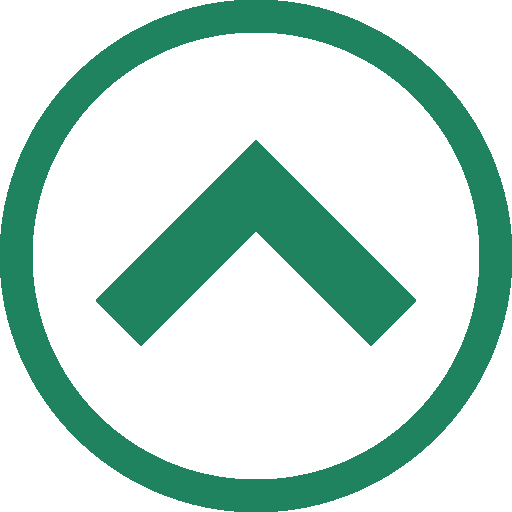
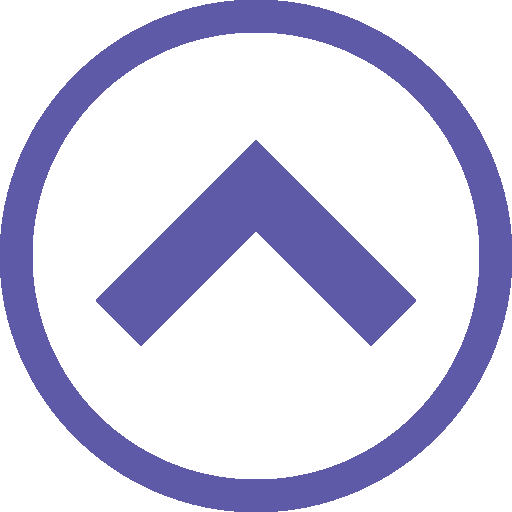
cambios imagen y botones

Changed region(s): [[0.0, 0.0, 1.0, 1.0], [0.1875, 0.2812, 0.8125, 0.6875]]

diff --git a/index.html b/index.html
@@ -70,11 +70,11 @@
       
       <div id="lenguaje">
       <ul class="lenguaje">
-        <li class="nav-item efectoHover">
-        <a href="#" data-name='spanish' class="idiomaEs btn btn-success btn-sm" role="button" aria-pressed="true">Español</a>
+        <li class="nav-item">
+        <a href="#" data-name='spanish' class="idiomaEs btn btn-outline-secondary rounded-0 btn-sm" role="button" aria-pressed="true">Español</a>
         </li>
-        <li class="nav-item efectoHover">
-        <a href="#" data-name='english' class="idiomaEn btn btn-danger btn-sm" role="button" aria-pressed="true">Inglés</a>
+        <li class="nav-item">
+        <a href="#" data-name='english' class="idiomaEn btn btn-outline-secondary rounded-0 btn-sm" role="button" aria-pressed="true">Inglés</a>
         </li>
       </ul>
       </div>
@@ -173,8 +173,8 @@
         </div>
       </div>
       <div class="text-center">
-        <a href="https://walterfcr.github.io/trops/" target="blank" class="btn btn-success btn-md mt-3 mb-5" role="button" aria-pressed="true">Website</a>
-        <a href="https://github.com/walterfcr/trops.git" target="blank" class="btn btn-danger btn-md mt-3 mb-5" role="button" aria-pressed="true">Github</a>
+        <a href="https://walterfcr.github.io/trops/" target="blank" class="estiloBoton btn btn-outline-secondary rounded-0 btn-md mt-3 mb-5" role="button" aria-pressed="true">Website</a>
+        <a href="https://github.com/walterfcr/trops.git" target="blank" class="estiloBoton btn btn-outline-secondary rounded-0 btn-md mt-3 mb-5" role="button" aria-pressed="true">Github</a>
       </div>
     </div>
     <div class="columnaImagenes">
@@ -186,8 +186,8 @@
         </div>
       </div>
       <div class="text-center">
-        <a href="https://walterfcr.github.io/cinemaclassic/" target="blank" class="btn btn-success btn-md mt-3 mb-5" role="button" aria-pressed="true">Website</a>
-        <a href="https://github.com/walterfcr/cinemaclassic.git" target="blank" class="btn btn-danger btn-md mt-3 mb-5" role="button" aria-pressed="true">Github</a>
+        <a href="https://walterfcr.github.io/cinemaclassic/" target="blank" class="estiloBoton btn btn-outline-secondary rounded-0 btn-md mt-3 mb-5" role="button" aria-pressed="true">Website</a>
+        <a href="https://github.com/walterfcr/cinemaclassic.git" target="blank" class="estiloBoton btn btn-outline-secondary rounded-0 btn-md mt-3 mb-5" role="button" aria-pressed="true">Github</a>
       </div>
     </div>
     <div class="columnaImagenes">
@@ -199,8 +199,8 @@
         </div>
       </div>
       <div class="text-center">
-        <a href="https://walterfcr.github.io/reinomagico/" target="blank" class="btn btn-success btn-md mt-3 mb-5" role="button" aria-pressed="true">Website</a>
-        <a href="https://github.com/walterfcr/reinomagico.git" target="blank" class="btn btn-danger btn-md mt-3 mb-5" role="button" aria-pressed="true">Github</a>
+        <a href="https://walterfcr.github.io/reinomagico/" target="blank" class="estiloBoton btn btn-outline-secondary rounded-0 btn-md mt-3 mb-5" role="button" aria-pressed="true">Website</a>
+        <a href="https://github.com/walterfcr/reinomagico.git" target="blank" class="estiloBoton btn btn-outline-secondary rounded-0 btn-md mt-3 mb-5" role="button" aria-pressed="true">Github</a>
       </div>
     </div>
     <div class="columnaImagenes">
@@ -211,9 +211,9 @@
           <p class="parrafo proyecto4">One Page de un instituto privado que demuestra que se puede minimizar contenido y navegación sin perder la calidad y usando un diseño plano y moderno.</p>
         </div>
       </div>
-      <div class="text-center">
-        <a href="https://walterfcr.github.io/avila/#inicio" target="blank" class="btn btn-success btn-md mt-3 mb-5" role="button" aria-pressed="true">Website</a>
-        <a href="https://github.com/walterfcr/avila.git" target="blank" class="btn btn-danger btn-md mt-3 mb-5" role="button" aria-pressed="true">Github</a>
+      <div class="text-center ">
+        <a href="https://walterfcr.github.io/avila/#inicio" target="blank" class="estiloBoton btn btn-outline-secondary rounded-0 btn-md mt-3 mb-5" role="button" aria-pressed="true">Website</a>
+        <a href="https://github.com/walterfcr/avila.git" target="blank" class="estiloBoton btn btn-outline-secondary rounded-0 btn-md mt-3 mb-5" role="button" aria-pressed="true">Github</a>
       </div>
     </div>
     <div class="columnaImagenes">
@@ -225,8 +225,8 @@
         </div>
       </div>
       <div class="text-center">
-        <a href="https://walterfcr.github.io/jugueticos/" target="blank" class="btn btn-success btn-md mt-3 mb-5" role="button" aria-pressed="true">Website</a>
-        <a href="https://github.com/walterfcr/jugueticos.git" target="blank" class="btn btn-danger btn-md mt-3 mb-5" role="button" aria-pressed="true">Github</a>
+        <a href="https://walterfcr.github.io/jugueticos/" target="blank" class="estiloBoton btn btn-outline-secondary rounded-0 btn-md mt-3 mb-5" role="button" aria-pressed="true">Website</a>
+        <a href="https://github.com/walterfcr/jugueticos.git" target="blank" class="estiloBoton btn btn-outline-secondary rounded-0 btn-md mt-3 mb-5" role="button" aria-pressed="true">Github</a>
       </div>
     </div>
     <div class="columnaImagenes">
@@ -238,8 +238,8 @@
         </div>
       </div>
       <div class="text-center">
-        <a href="https://walterfcr.github.io/alternativeRockFest/"  target="blank" class="btn btn-success btn-md mt-3 mb-5" role="button" aria-pressed="true">Website</a>
-        <a href="https://github.com/walterfcr/alternativeRockFest.git" target="blank" class="btn btn-danger btn-md mt-3 mb-5" role="button" aria-pressed="true">Github</a>
+        <a href="https://walterfcr.github.io/alternativeRockFest/"  target="blank" class="estiloBoton btn btn-outline-secondary rounded-0 btn-md mt-3 mb-5" role="button" aria-pressed="true">Website</a>
+        <a href="https://github.com/walterfcr/alternativeRockFest.git" target="blank" class="estiloBoton btn btn-outline-secondary rounded-0 btn-md mt-3 mb-5" role="button" aria-pressed="true">Github</a>
       </div>
     </div>
 

diff --git a/css/estilo.css b/css/estilo.css
@@ -36,8 +36,21 @@ h3{
 }
 
 h4{
-    color:#4ebe97;
+    color:#5e5aa8;
 }
+
+.idiomaEs, .idiomaEn, .estiloBoton{
+    color:#7cacdc !important;
+    border-color: #7cacdc !important;
+}
+
+.idiomaEs:hover, .idiomaEn:hover, .estiloBoton:hover{
+    color:#fff !important;
+    border-color: #fff !important;
+    background-color: #1b193e;
+}
+
+
  
 .wrap{
 	margin: 0 auto;
@@ -293,7 +306,7 @@ nav, .navbar-toggler {
     padding:30px;
     background-color: #f7eded;
     border-radius: 50%;
-    border:8px solid #88d4b9;
+    border:8px solid #5e5aa8;
 }
 
 .herramientas p{
